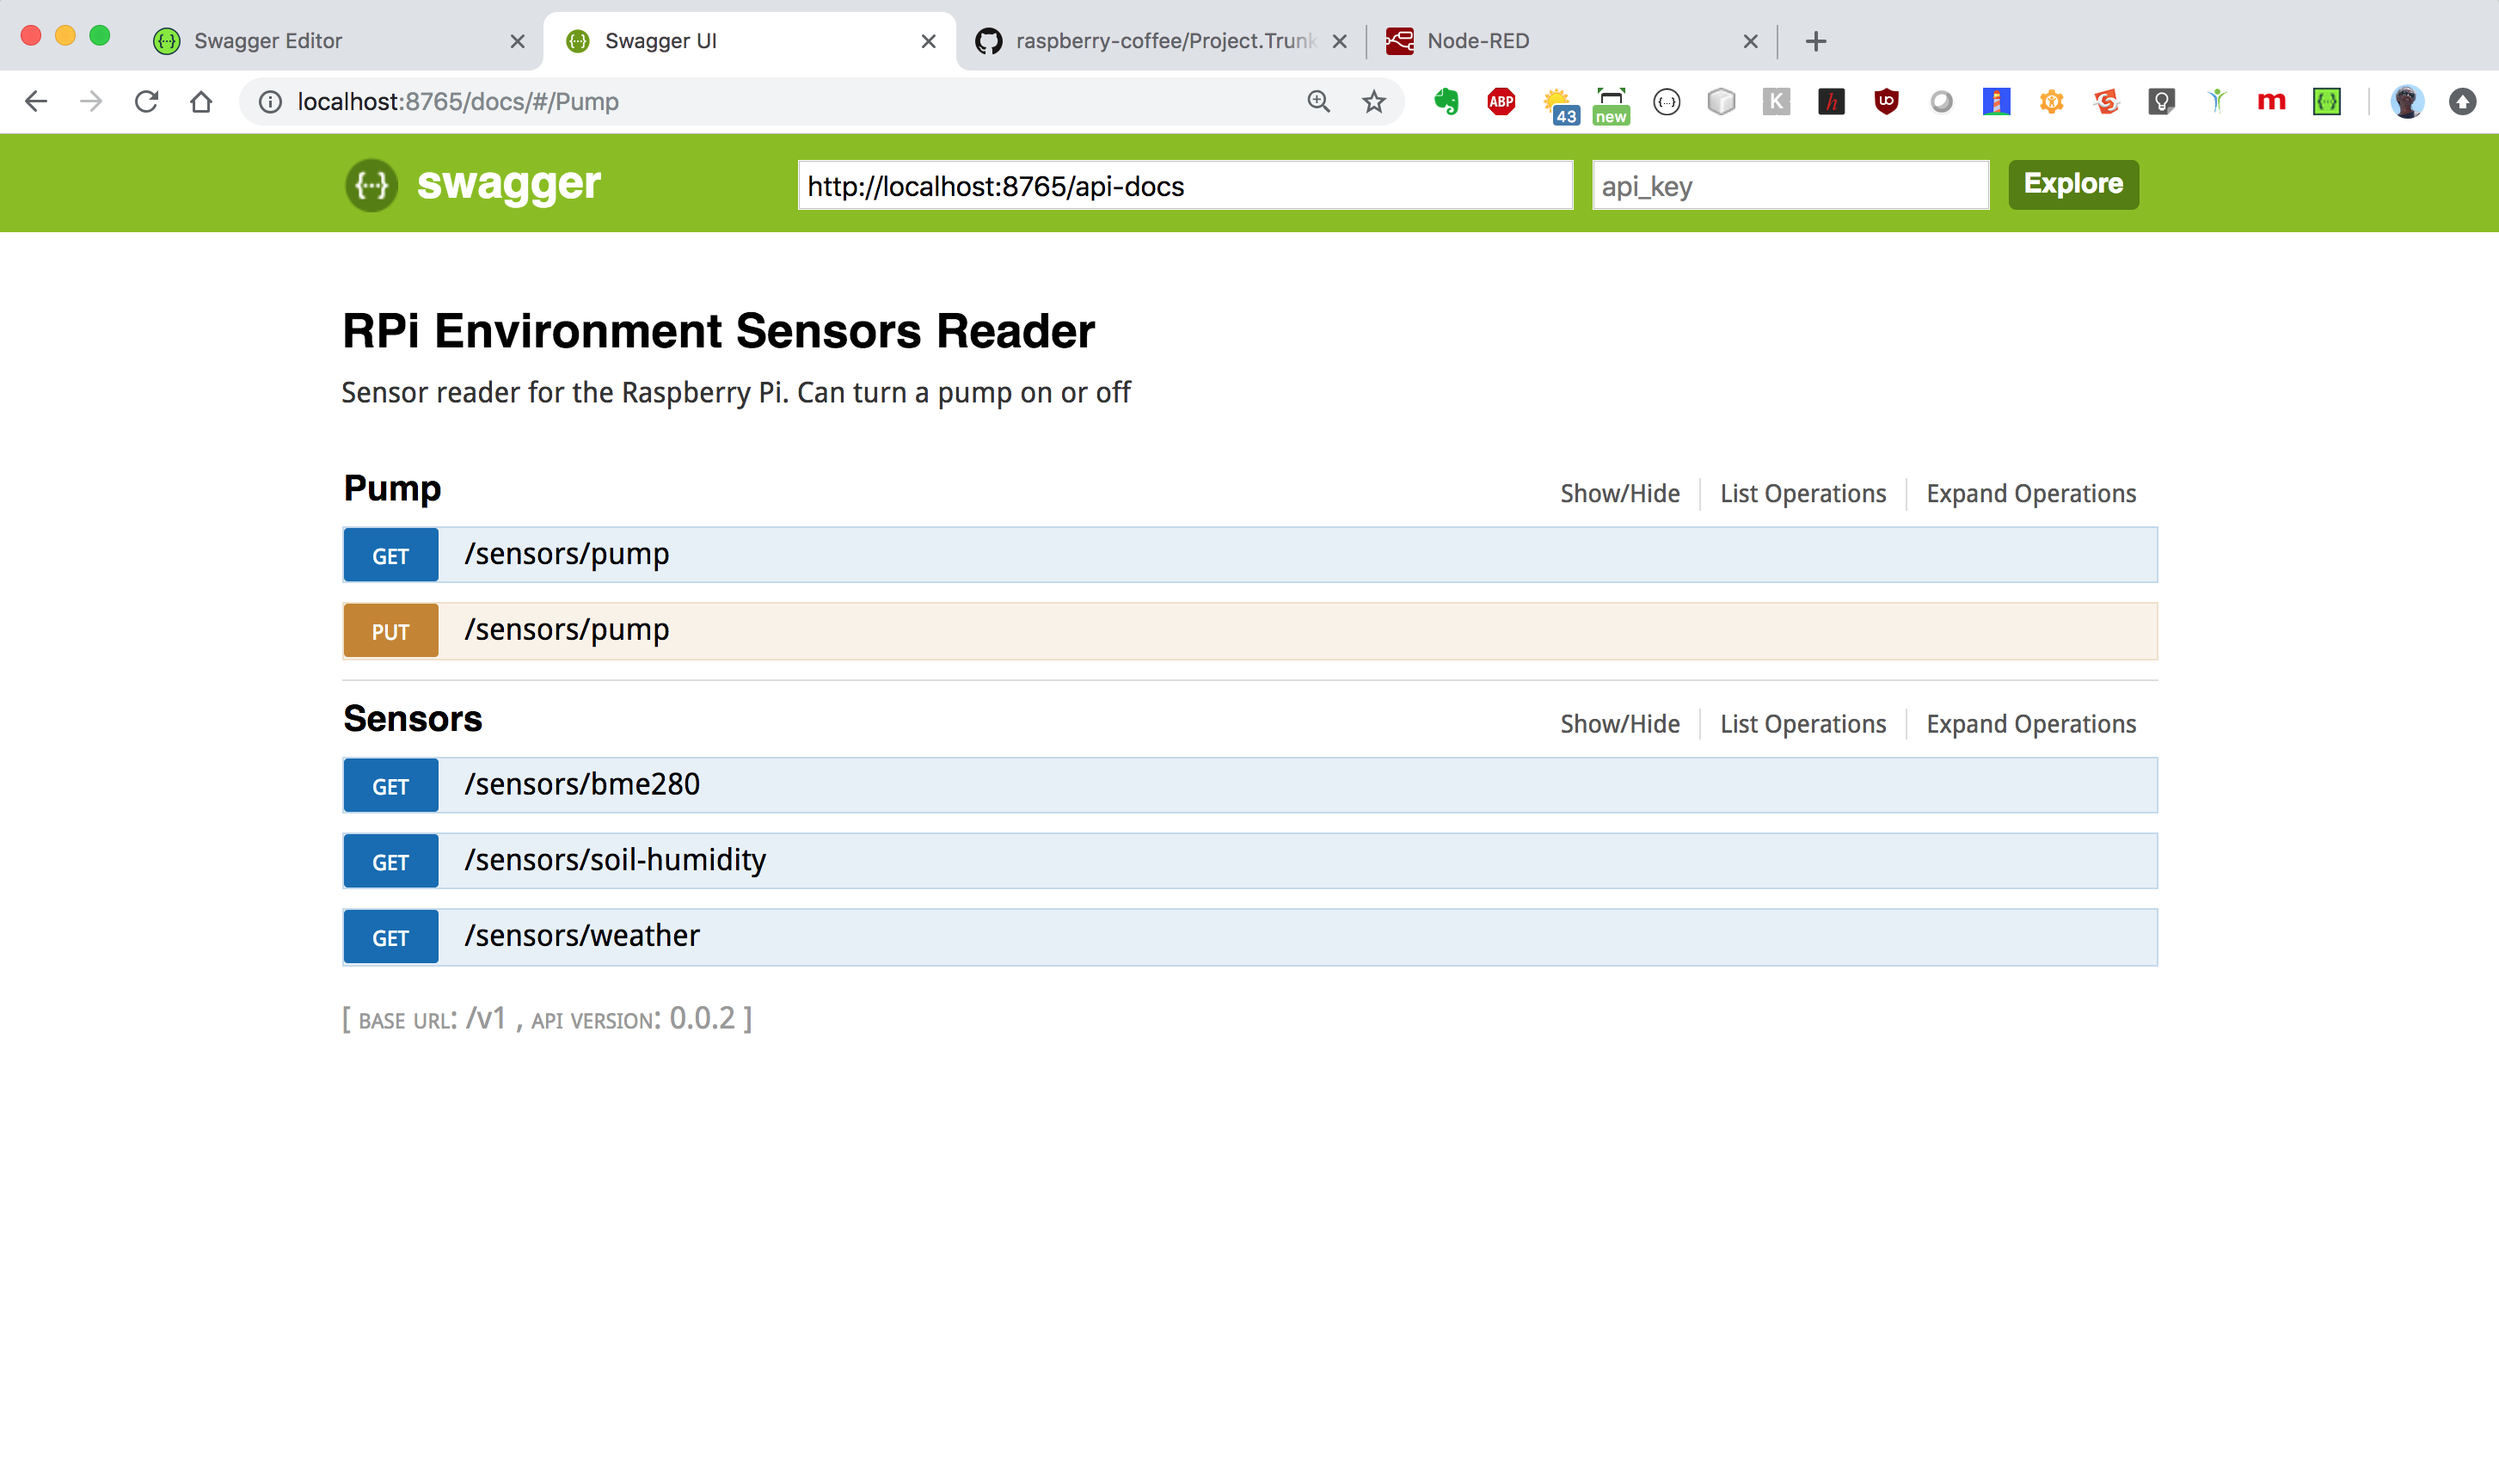
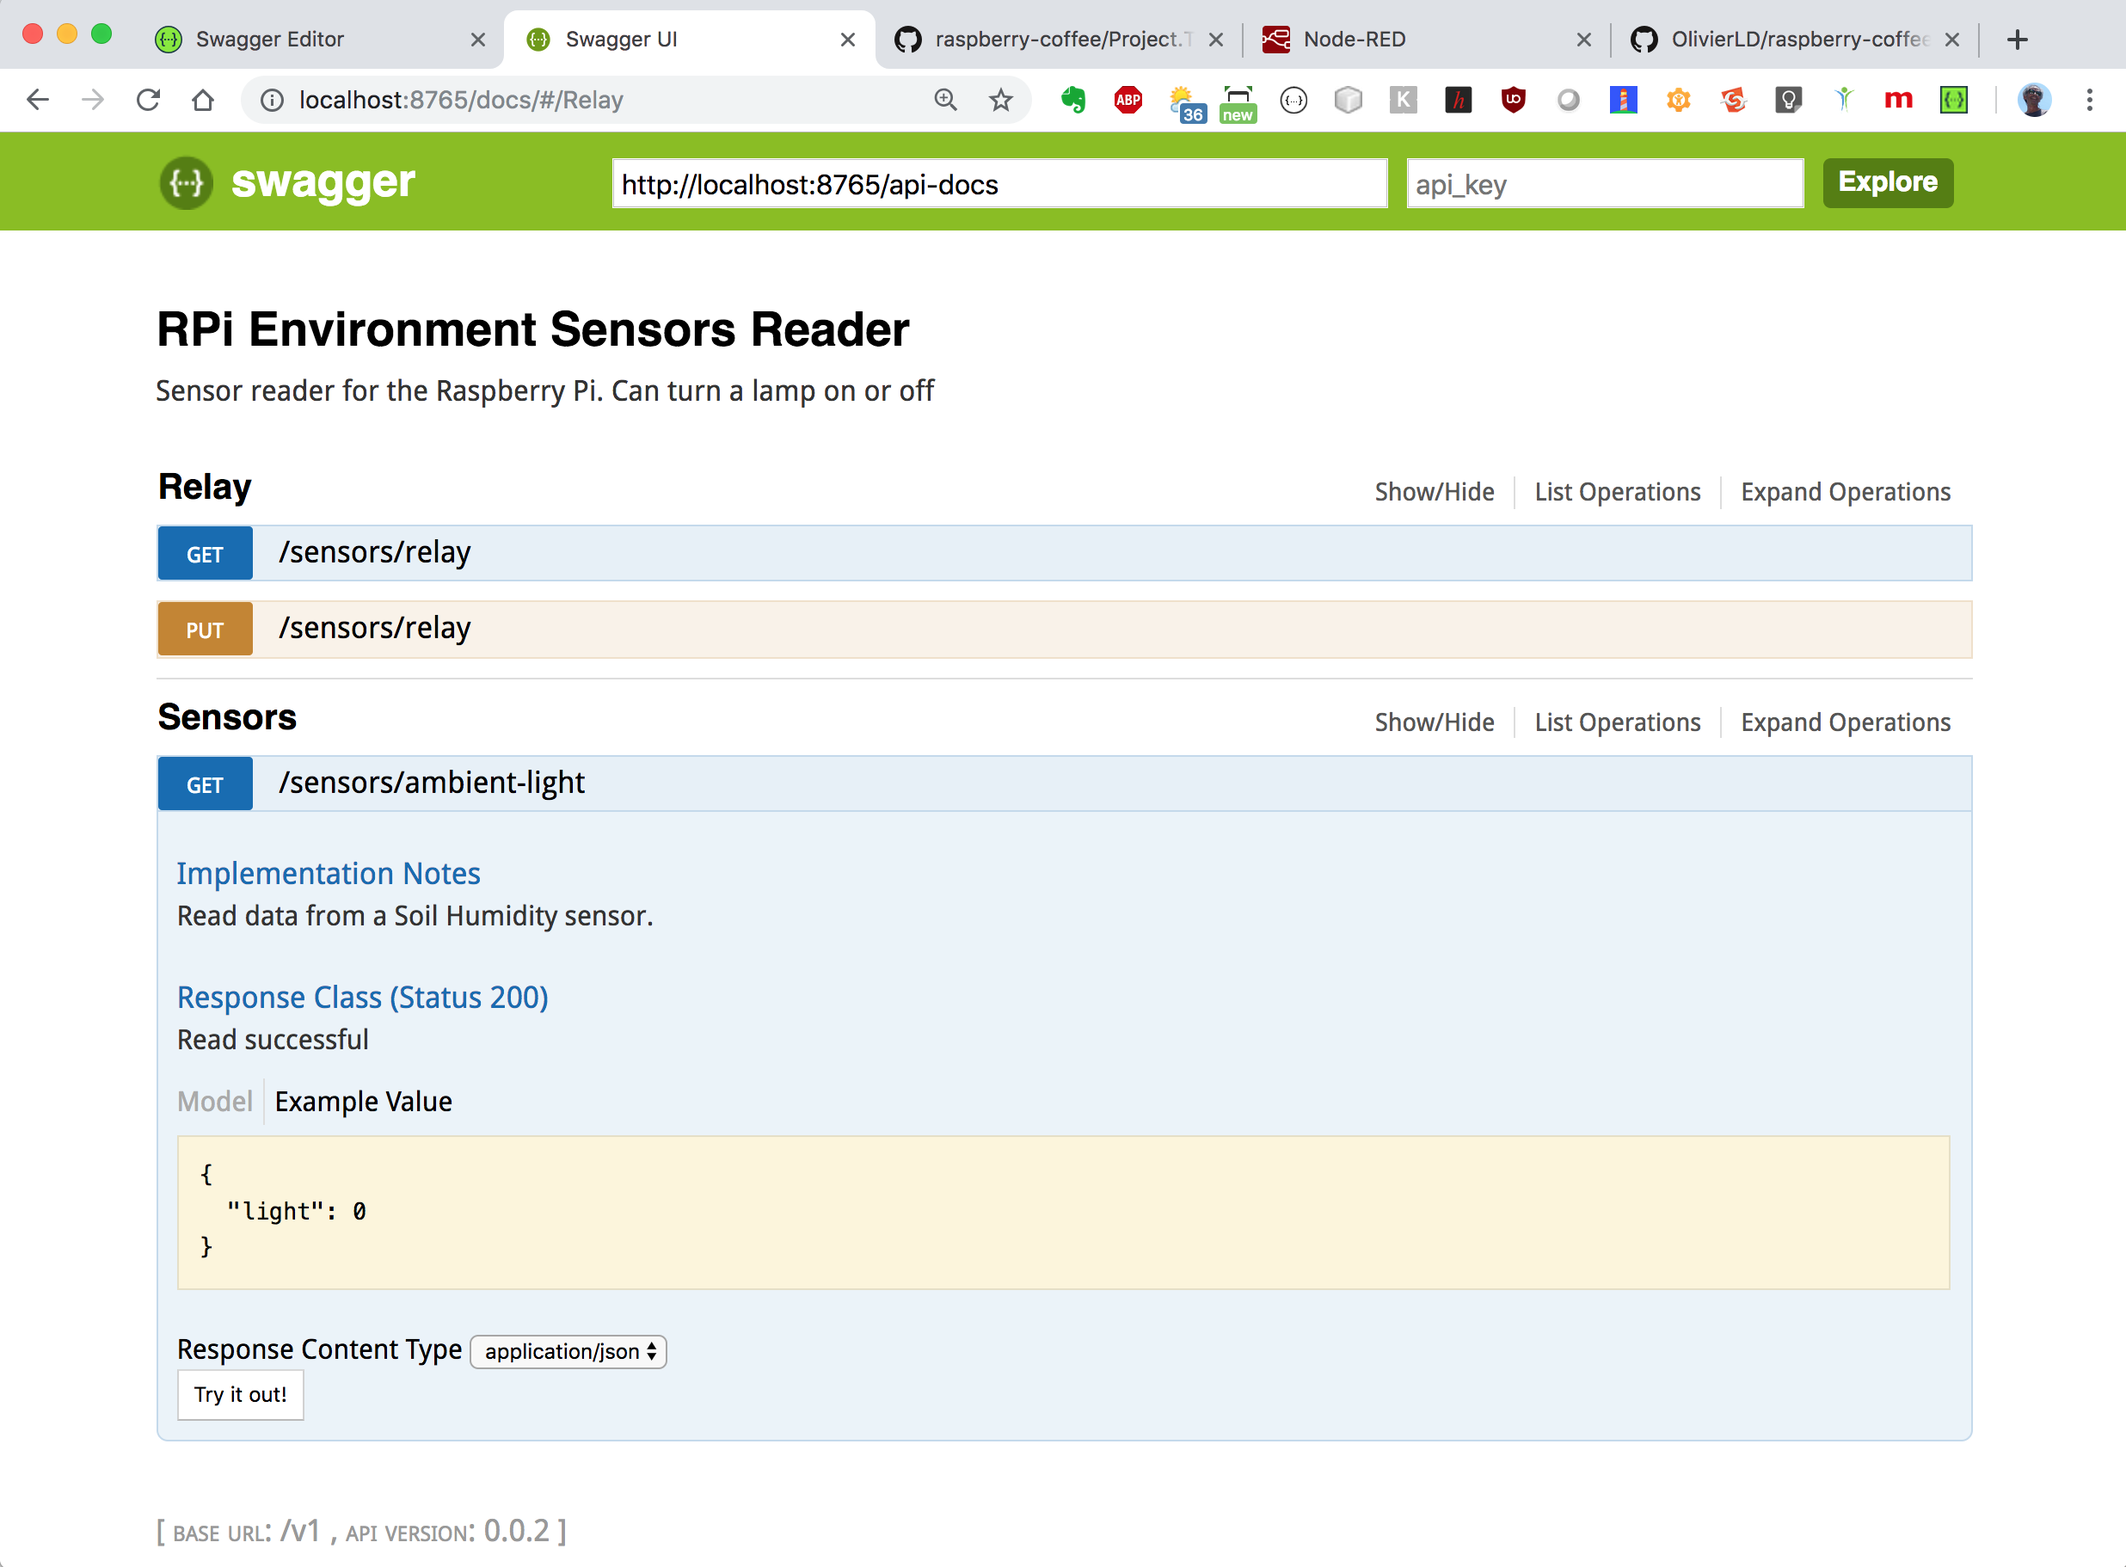
Updated screenshots

diff --git a/Project.Trunk/REST.clients/REST.assembler/README.md b/Project.Trunk/REST.clients/REST.assembler/README.md
@@ -147,6 +147,11 @@ Quite mature. Its `micro-profile` feature is appealing.
 
 You need `Maven` to be available on your system (it's there by default on the Raspberry Pi).
 
+
+> Note: Below is the description of the steps to take to do it in full for yourself.
+> The code to run is already in this project. You can actually jump to the section [`Run the server`](#run-the-server) if you do not 
+> need to know how the code is elaborated.
+
 Using `Maven`, let's create the require infrastructure.
 
 You need network access to complete this step. If you are behind a firewall, you need to provide the 
@@ -275,7 +280,10 @@ For information
 - `SensorResource` will define the REST interface
 - `SensorProvider` will be the implementation, actually dealing with sensors and pump.
 
-The source files, as they should eventually be running are provided in this project.
+The source files, as they should eventually be running are provided in this project,
+in the `helidon-sensors` folder.
+
+> Also notice the `helidon-sensors/src/main/resources/META-INF/microprofile-config.properties` config file.
 
 ##### fnProject
 Still in development, but quite promising. WIP. 🚧
@@ -379,6 +387,6 @@ The services can be invoke from any REST client. `curl`, `PostMan`, a browser (f
 
 > Note: The UI above gives you the syntax of the `curl` requests, for example:
 ```
- $ curl -X GET --header 'Accept: application/json' 'http://localhost:8765/v1/sensors/pump'
+ $ curl -X GET --header 'Accept: application/json' 'http://localhost:8765/v1/sensors/relay'
 ```
 
